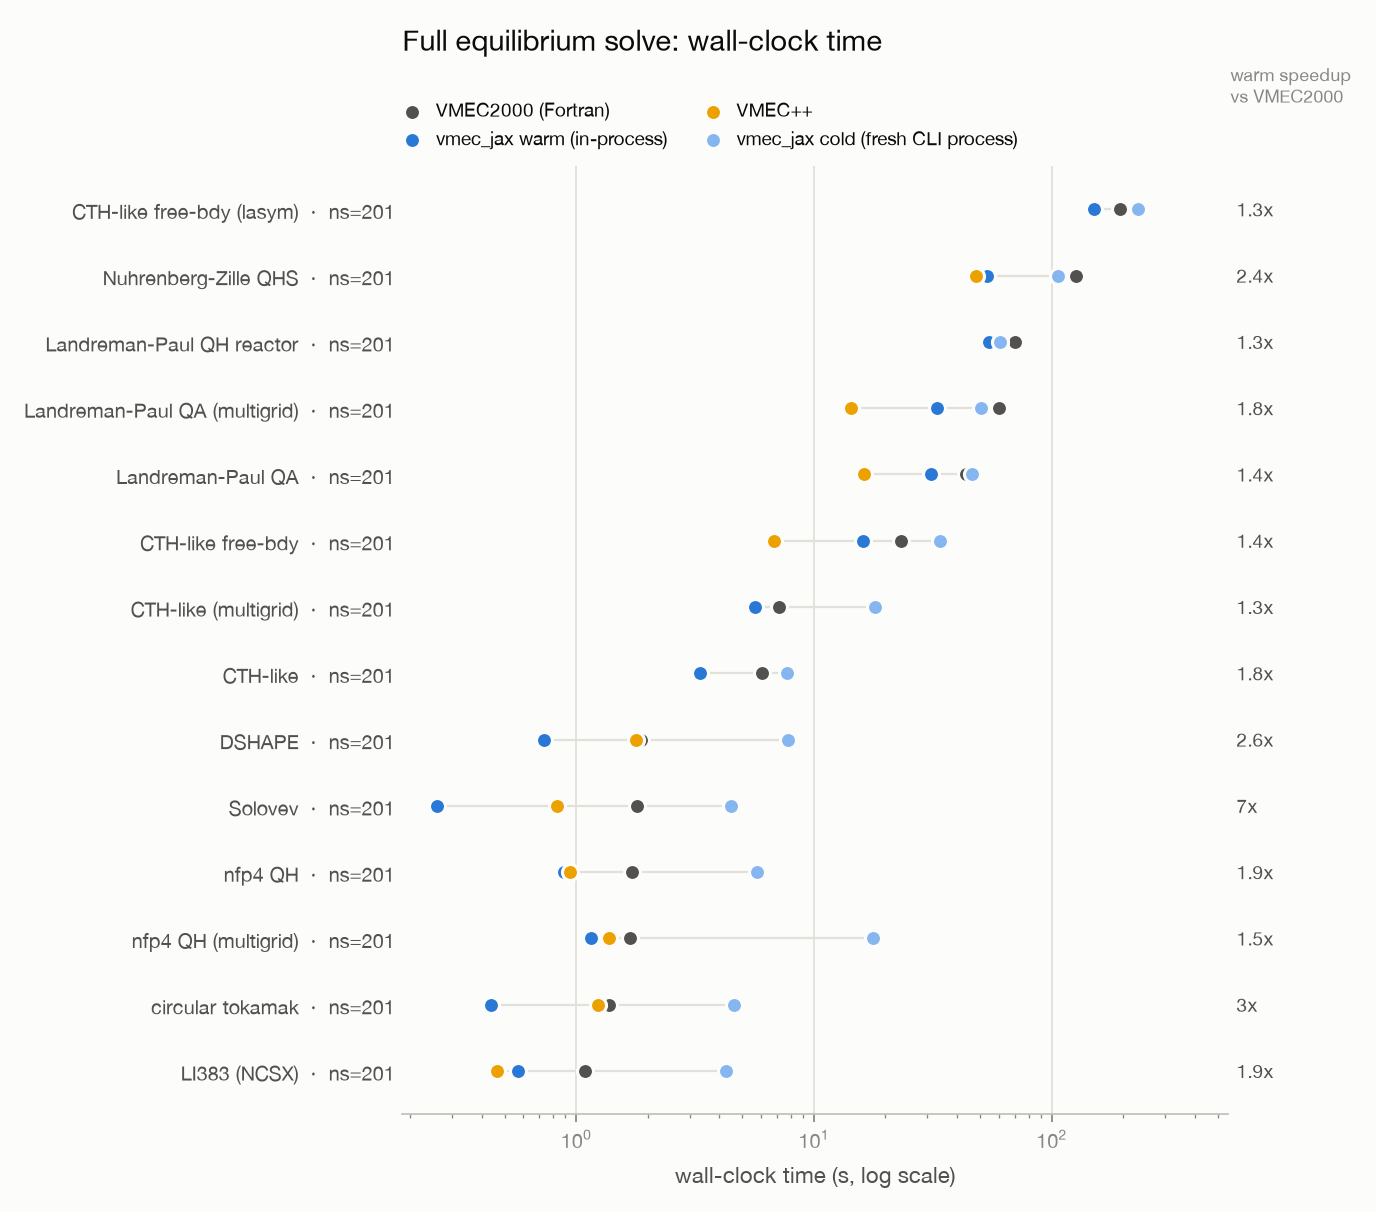
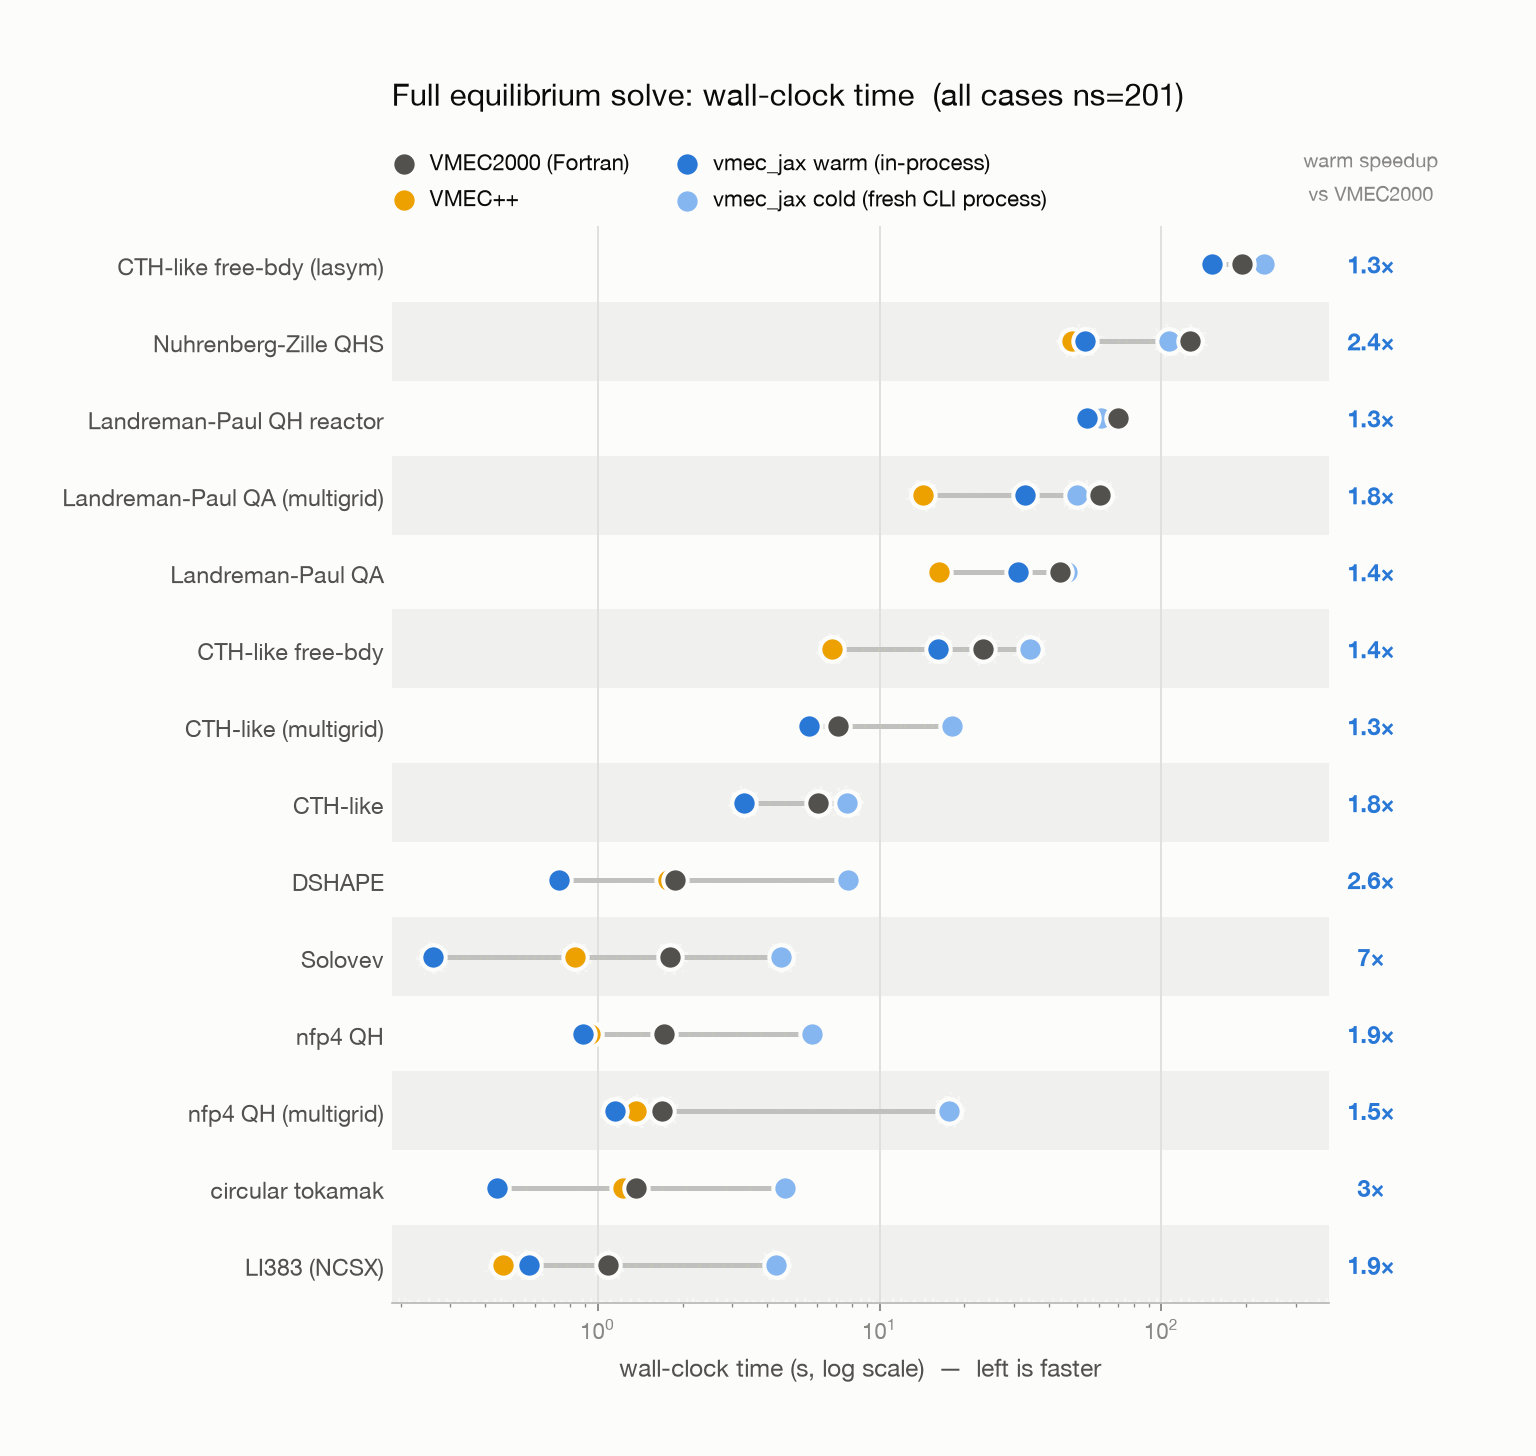
figures: publication-quality polish pass (runtime, objectives, single-stage)
- readme_runtime_compare: larger white-edged markers, thicker range lines,
  banded rows, bold blue speedup column, bigger label/tick fonts, ns=201
  moved into the title, dead right-hand decade removed.  The dot plot is
  kept over paired bars: the data spans three decades so the axis must be
  log, and bar lengths misencode magnitude on a log axis.
- readme_objectives: bigger seed/final dots and arrow connectors, data-driven
  value-label sides, no arrowhead on nearly-unmoved rows (both dots stay
  visible), larger row/target/drift text, tightened margins.
- readme_single_stage: nested gridspec with slight overlap between the two
  3-D rows removes the dead vertical gap; title/subtitle separation and
  font sizes raised throughout.
- shared 3-D/Boozer/boundary helpers: colorbar and tick fonts raised from
  6-7pt to 7.5-8pt (optimization/qi/showcase pick this up on their next
  refresh; not re-solved here).

diff --git a/benchmarks/make_readme_figures.py b/benchmarks/make_readme_figures.py
@@ -149,55 +149,79 @@ def make_runtime_figure(out: Path) -> None:
                          gpu=gr))
     rows.sort(key=lambda r: r["v2k"])
 
-    fig, ax = plt.subplots(figsize=(8.6, 0.42 * len(rows) + 1.7), dpi=160)
+    ns_set = {r["ns"] for r in rows}
+    same_ns = len(ns_set) == 1
+
+    fig, ax = plt.subplots(figsize=(9.6, 0.50 * len(rows) + 2.1), dpi=160)
+    fig.subplots_adjust(left=0.255, right=0.865, top=0.845, bottom=0.105)
     ys = range(len(rows))
     for y, r in zip(ys, rows):
+        if y % 2 == 0:
+            ax.axhspan(y - 0.5, y + 0.5, color="#f4f3ef", zorder=0)
         xs = [v for v in (r["v2k"], r["cold"], r["warm"], r["vpp"], r["gpu"]) if v]
-        ax.hlines(y, min(xs), max(xs), color=GRID, lw=1.0, zorder=1)
+        ax.hlines(y, min(xs), max(xs), color=BASELINE, lw=2.2, zorder=1,
+                  capstyle="round")
 
-    mk = dict(s=52, zorder=3, linewidths=1.4, edgecolors=SURFACE)
-    ax.scatter([r["v2k"] for r in rows], list(ys), color=INK2,
-               label="VMEC2000 (Fortran)", **mk)
-    ax.scatter([r["warm"] for r in rows], list(ys), color=BLUE,
-               label="vmec_jax warm (in-process)", **mk)
+    # hero (warm, blue) drawn last so it stays on top where points coincide
+    mk = dict(s=120, zorder=3, linewidths=1.8, edgecolors="white")
+    ax.scatter([r["cold"] for r in rows], list(ys), color=BLUE_LIGHT,
+               label="vmec_jax cold (fresh CLI process)", **mk)
     vpp_pts = [(r["vpp"], y) for y, r in zip(ys, rows) if r["vpp"]]
     ax.scatter([p[0] for p in vpp_pts], [p[1] for p in vpp_pts],
                color=YELLOW, label="VMEC++", **mk)
     gpu_pts = [(r["gpu"], y) for y, r in zip(ys, rows) if r["gpu"]]
     if gpu_pts:
         ax.scatter([p[0] for p in gpu_pts], [p[1] for p in gpu_pts],
-                   color=VIOLET, marker="D", s=40, zorder=3, linewidths=1.4,
-                   edgecolors=SURFACE, label="vmec_jax warm (GPU)")
-    ax.scatter([r["cold"] for r in rows], list(ys), color=BLUE_LIGHT,
-               label="vmec_jax cold (fresh CLI process)", **mk)
+                   color=VIOLET, marker="D", s=95, zorder=3, linewidths=1.8,
+                   edgecolors="white", label="vmec_jax warm (GPU)")
+    ax.scatter([r["v2k"] for r in rows], list(ys), color=INK2,
+               label="VMEC2000 (Fortran)", **mk)
+    ax.scatter([r["warm"] for r in rows], list(ys), color=BLUE, zorder=4,
+               s=120, linewidths=1.8, edgecolors="white",
+               label="vmec_jax warm (in-process)")
 
     xmax = max(max(v for v in (r["v2k"], r["cold"], r["vpp"] or 0, r["gpu"] or 0))
                for r in rows)
+    tr = ax.get_yaxis_transform()  # x in axes fraction, y in data
     for y, r in zip(ys, rows):
         sp = r["v2k"] / r["warm"]
-        ax.annotate(f"{sp:,.0f}x" if sp >= 3 else f"{sp:.1f}x",
-                    xy=(xmax * 2.6, y), va="center", ha="left",
-                    fontsize=8.5, color=INK2, annotation_clip=False)
-    ax.annotate("warm speedup\nvs VMEC2000", xy=(xmax * 2.45, len(rows) + 0.55),
-                va="bottom", ha="left", fontsize=8, color=MUTED,
-                annotation_clip=False)
+        ax.text(1.045, y, f"{sp:,.0f}×" if sp >= 3 else f"{sp:.1f}×",
+                transform=tr, va="center", ha="center", fontsize=11,
+                color=BLUE, fontweight="bold", clip_on=False)
+    ax.text(1.045, 1.015, "warm speedup\nvs VMEC2000", transform=ax.transAxes,
+            va="bottom", ha="center", fontsize=9, color=MUTED,
+            linespacing=1.35)
 
     ax.set_xscale("log")
     ax.set_yticks(list(ys))
-    ax.set_yticklabels([f"{r['label']}  ·  ns={r['ns']}" for r in rows])
-    ax.set_xlabel("wall-clock time (s, log scale)")
-    ax.set_xlim(right=xmax * 2.4)
+    if same_ns:
+        ax.set_yticklabels([r["label"] for r in rows], fontsize=10.5)
+    else:
+        ax.set_yticklabels([f"{r['label']}  ·  ns={r['ns']}" for r in rows],
+                           fontsize=10.5)
+    ax.set_xlabel("wall-clock time (s, log scale)  —  left is faster",
+                  fontsize=11)
+    ax.tick_params(axis="x", labelsize=10)
+    ax.set_xlim(right=xmax * 1.7)
+    ax.set_ylim(-0.5, len(rows) - 0.5)
     ax.xaxis.grid(True)
     ax.set_axisbelow(True)
     for s in ("top", "right", "left"):
         ax.spines[s].set_visible(False)
     ax.tick_params(axis="y", length=0)
-    ax.set_title("Full equilibrium solve: wall-clock time", loc="left",
-                 pad=52, fontsize=13, color=INK)
-    ax.legend(loc="lower left", bbox_to_anchor=(-0.02, 1.01), ncols=2,
-              fontsize=8.5, columnspacing=1.4, handletextpad=0.25,
-              borderaxespad=0.0, labelspacing=0.35)
-    fig.tight_layout()
+    title = "Full equilibrium solve: wall-clock time"
+    if same_ns:
+        title += f"  (all cases ns={next(iter(ns_set))})"
+    ax.set_title(title, loc="left", pad=54, fontsize=14, color=INK)
+    handles, labels = ax.get_legend_handles_labels()
+    order = ["VMEC2000 (Fortran)", "VMEC++",
+             "vmec_jax warm (in-process)", "vmec_jax cold (fresh CLI process)",
+             "vmec_jax warm (GPU)"]
+    pairs = sorted(zip(handles, labels), key=lambda hl: order.index(hl[1]))
+    ax.legend([p[0] for p in pairs], [p[1] for p in pairs],
+              loc="lower left", bbox_to_anchor=(-0.02, 1.005), ncols=2,
+              fontsize=10, columnspacing=1.6, handletextpad=0.15,
+              borderaxespad=0.0, labelspacing=0.45)
     fig.savefig(out, dpi=160)
     plt.close(fig)
     print("wrote", out)
@@ -509,7 +533,7 @@ def _plot_boundary_slices(axb, R, Z, *, color, seed=None):
     # labels align across a row of wildly different boundary scales — while
     # preserving true, undistorted equal-aspect cross-sections.
     axb.set_aspect("equal", adjustable="datalim")
-    axb.tick_params(labelsize=7)
+    axb.tick_params(labelsize=8)
     for s in ("top", "right"):
         axb.spines[s].set_visible(False)
 
@@ -547,7 +571,7 @@ def _plot_3d_modB(fig, ax3d, wout, nfp):
                            norm=Normalize(float(Bg.min()), float(Bg.max())))
     sm.set_array([])
     cb = fig.colorbar(sm, ax=ax3d, pad=0.0, fraction=0.045, shrink=0.62)
-    cb.ax.tick_params(labelsize=6, colors=MUTED)
+    cb.ax.tick_params(labelsize=7.5, colors=MUTED)
     cb.outline.set_visible(False)
     return float(Bg.min()), float(Bg.max())
 
@@ -570,10 +594,10 @@ def _plot_boozer_modB(fig, axm, wout, nfp, tag):
     pc = axm.contour(pb * nfp / (2 * np.pi), tb / (2 * np.pi), B,
                      levels=22, cmap="jet", linewidths=0.8)
     cb = fig.colorbar(pc, ax=axm, pad=0.02, fraction=0.05)
-    cb.ax.tick_params(labelsize=6.5, colors=MUTED)
+    cb.ax.tick_params(labelsize=7.5, colors=MUTED)
     cb.outline.set_visible(False)
-    axm.set_xlabel("$\\phi_B$ (field periods)", fontsize=8.5)
-    axm.tick_params(labelsize=7)
+    axm.set_xlabel("$\\phi_B$ (field periods)", fontsize=9)
+    axm.tick_params(labelsize=8)
     return float(B.min()), float(B.max())
 
 
@@ -963,7 +987,7 @@ def _plot_coils_and_lcfs(fig, ax3d, wout, gamma, nfp):
                            norm=Normalize(float(Bg.min()), float(Bg.max())))
     sm.set_array([])
     cb = fig.colorbar(sm, ax=ax3d, pad=0.0, fraction=0.04, shrink=0.6)
-    cb.ax.tick_params(labelsize=6, colors=MUTED)
+    cb.ax.tick_params(labelsize=7.5, colors=MUTED)
     cb.outline.set_visible(False)
     return float(Bg.min()), float(Bg.max())
 
@@ -992,9 +1016,14 @@ def make_single_stage_figure(out: Path) -> None:
 
     seed_inp = vj.VmecInput.from_file(str(SINGLE_STAGE_SEED))
     ncol = len(cases)
-    fig = plt.figure(figsize=(3.4 * ncol, 9.4), dpi=150)
-    gs = fig.add_gridspec(3, ncol, height_ratios=[1.0, 0.92, 0.92],
-                          hspace=0.24, wspace=0.28)
+    fig = plt.figure(figsize=(3.4 * ncol, 8.4), dpi=150)
+    # nested gridspecs: the 3-D axes hold their (flat) content in a middle
+    # band, so the two 3-D rows overlap slightly (negative hspace) to avoid a
+    # dead vertical gap between them
+    outer = fig.add_gridspec(2, 1, height_ratios=[1.0, 1.62], hspace=0.34,
+                             left=0.09, right=0.97, top=0.86, bottom=0.005)
+    gs_top = outer[0].subgridspec(1, ncol, wspace=0.28)
+    gs_bot = outer[1].subgridspec(2, ncol, wspace=0.28, hspace=-0.30)
     theta = np.linspace(0, 2 * np.pi, 241)
 
     for col, (name, title, cdir) in enumerate(cases):
@@ -1008,7 +1037,7 @@ def make_single_stage_figure(out: Path) -> None:
         # -- row 0: seed vs two-stage vs single-stage boundary -----------------
         # All three on one axes: the shared (auto-scaled, equal-aspect) limits
         # keep the crude cold-start seed AND both finals visible together.
-        axb = fig.add_subplot(gs[0, col])
+        axb = fig.add_subplot(gs_top[0, col])
         Rs, Zs = _input_boundary_rz(seed_inp, theta, phi_arr)
         Rt, Zt = surface_rz(w_two, s_index=-1, theta=theta, phi=phi_arr)
         Rf, Zf = surface_rz(w_sin, s_index=-1, theta=theta, phi=phi_arr)
@@ -1024,15 +1053,15 @@ def make_single_stage_figure(out: Path) -> None:
                      alpha=1.0 if k == 0 else 0.55,
                      label="single-stage" if k == 0 else None)
         axb.set_aspect("equal", adjustable="datalim")
-        axb.set_title(title, loc="left", fontsize=10.5, color=INK, pad=3)
-        axb.tick_params(labelsize=7)
+        axb.set_title(title, loc="left", fontsize=11.5, color=INK, pad=4)
+        axb.tick_params(labelsize=8)
         for s in ("top", "right"):
             axb.spines[s].set_visible(False)
         if col == 0:
-            axb.set_ylabel("Z (m)", fontsize=8.5)
-        axb.set_xlabel("R (m)", fontsize=8.5)
-        axb.legend(loc="upper right", fontsize=6.5, handlelength=1.4,
-                   labelspacing=0.25, borderaxespad=0.1)
+            axb.set_ylabel("Z (m)", fontsize=9.5)
+        axb.set_xlabel("R (m)", fontsize=9.5)
+        axb.legend(loc="upper right", fontsize=8, handlelength=1.4,
+                   labelspacing=0.3, borderaxespad=0.1)
         pol = comp.get("single_stage_polish")
         bn_line = ("$\\langle|B\\cdot n|\\rangle/\\langle B\\rangle$: "
                    f"{ts['avg_Bn_over_B']:.1e}"
@@ -1043,8 +1072,8 @@ def make_single_stage_figure(out: Path) -> None:
                    + f" (cold {ss['qs_total']:.1e})")
         axb.annotate(
             bn_line + "\n" + qs_line,
-            xy=(0.5, -0.24), xycoords="axes fraction", ha="center", va="top",
-            fontsize=7, color=GREEN_TEXT, fontweight="bold")
+            xy=(0.5, -0.26), xycoords="axes fraction", ha="center", va="top",
+            fontsize=8, color=GREEN_TEXT, fontweight="bold", linespacing=1.45)
         if name == "beta":
             # The case's calibrated seed <beta> (the finals' betatotal shifts
             # with each approach's plasma volume at the fixed pres_scale).
@@ -1056,32 +1085,31 @@ def make_single_stage_figure(out: Path) -> None:
                                                   float(w_sin.betatotal)]))
             axb.annotate(f"$\\langle\\beta\\rangle \\approx$ {beta_pct:.1f}%",
                          xy=(0.98, 1.02), xycoords="axes fraction", ha="right",
-                         va="bottom", fontsize=8, color=MUTED)
+                         va="bottom", fontsize=9, color=MUTED)
 
         # -- rows 1-2: each approach's final LCFS |B| inside its final coils ---
         for row, (wout, npz, lab, c) in enumerate(
                 [(w_two, "coils_stage2.npz", "two-stage", YELLOW),
                  (w_sin, "coils_single.npz", "single-stage", BLUE)], start=1):
             gamma = _coil_gamma_from_npz(cdir / npz)
-            ax3d = fig.add_subplot(gs[row, col], projection="3d")
+            ax3d = fig.add_subplot(gs_bot[row - 1, col], projection="3d")
             ax3d.patch.set_alpha(0.0)  # keep row-0's metric annotation visible
             b_lo, b_hi = _plot_coils_and_lcfs(fig, ax3d, wout, gamma, nfp)
-            ax3d.text2D(0.03, 0.10, lab, transform=ax3d.transAxes, ha="left",
-                        va="bottom", fontsize=9, color=c, fontweight="bold")
+            ax3d.text2D(0.05, 0.16, lab, transform=ax3d.transAxes, ha="left",
+                        va="bottom", fontsize=11, color=c, fontweight="bold")
             print(f"  {name}/{lab}: <|B.n|>/<B>={comp[lab.replace('-', '_')]['avg_Bn_over_B']:.3e}  "
                   f"QS={comp[lab.replace('-', '_')]['qs_total']:.3e}  "
                   f"|B|=[{b_lo:.2f},{b_hi:.2f}]T", flush=True)
 
     fig.suptitle("Cold-start single-stage vs two-stage plasma + coil "
-                 "optimization", x=0.5, ha="center", fontsize=12.5, color=INK,
-                 y=0.995)
-    fig.text(0.5, 0.966, "top: seed (grey, dashed) vs two-stage (orange) vs "
+                 "optimization", x=0.5, ha="center", fontsize=13.5, color=INK,
+                 y=0.993)
+    fig.text(0.5, 0.945, "top: seed (grey, dashed) vs two-stage (orange) vs "
              "single-stage (blue) boundary at $\\phi=0$ and a half field period",
-             ha="center", fontsize=8, color=MUTED)
-    fig.text(0.5, 0.951, "middle / bottom: each approach's final LCFS "
+             ha="center", fontsize=9.5, color=MUTED)
+    fig.text(0.5, 0.921, "middle / bottom: each approach's final LCFS "
              "coloured by |B| inside its own final coils",
-             ha="center", fontsize=8, color=MUTED)
-    fig.tight_layout(rect=(0, 0, 1, 0.936))
+             ha="center", fontsize=9.5, color=MUTED)
     fig.savefig(out, dpi=150)
     plt.close(fig)
     _compress_png(out)
@@ -1116,8 +1144,8 @@ def make_objectives_figure(out: Path) -> None:
             return
         rows.append((label, lane, json.loads(path.read_text())))
 
-    fig, ax = plt.subplots(figsize=(9.8, 0.98 * len(rows) + 1.7), dpi=150)
-    fig.subplots_adjust(left=0.235, right=0.665, top=0.80, bottom=0.06)
+    fig, ax = plt.subplots(figsize=(10.8, 0.92 * len(rows) + 1.55), dpi=150)
+    fig.subplots_adjust(left=0.225, right=0.645, top=0.815, bottom=0.035)
     ys = np.arange(len(rows))[::-1].astype(float)
     tr = ax.get_yaxis_transform()  # x in axes fraction, y in data
 
@@ -1131,51 +1159,61 @@ def make_objectives_figure(out: Path) -> None:
         pos = lambda v: (v - lo + pad) / (span + 2.0 * pad)  # noqa: E731
         xs, xf, xt = (pos(v) for v in vals)
 
-        ax.plot([xt], [y], marker="|", ms=15, mew=1.4, color=BASELINE, zorder=1)
+        ax.plot([xt], [y], marker="|", ms=22, mew=2.4, color=BASELINE, zorder=1)
         ax.annotate("target " + fmt.format(m["target"]), xy=(xt, y),
-                    xytext=(0, -13), textcoords="offset points", ha="center",
-                    fontsize=7, color=MUTED)
-        ax.annotate("", xy=(xf, y), xytext=(xs, y),
-                    arrowprops=dict(arrowstyle="-|>", color=BLUE, lw=1.7,
-                                    shrinkA=5, shrinkB=2), zorder=2)
-        ax.plot([xs], [y], "o", ms=7, color=BASELINE, mec=SURFACE, zorder=3)
-        ax.plot([xf], [y], "o", ms=8, color=BLUE, mec=SURFACE, zorder=3)
-        # nearly-unmoved metrics: split the value labels left/right of the
-        # dots so they never overprint each other
-        near = abs(xf - xs) < 0.12
+                    xytext=(0, -19), textcoords="offset points", ha="center",
+                    fontsize=8.5, color=MUTED)
+        # nearly-unmoved metrics: no arrow (an arrowhead between two nearly
+        # coincident dots reads as clutter); split the value labels left/right
+        near = abs(xf - xs) < 0.11
+        if not near:
+            ax.annotate("", xy=(xf, y), xytext=(xs, y),
+                        arrowprops=dict(arrowstyle="-|>", color=BLUE, lw=3.2,
+                                        mutation_scale=26, shrinkA=9,
+                                        shrinkB=4), zorder=2)
+        # on nearly-unmoved rows the two dots coincide: draw the (smaller)
+        # grey seed on top of the blue final so both stay visible
+        ax.plot([xs], [y], "o", ms=12, color=BASELINE, mec="white", mew=1.8,
+                zorder=5 if near else 3)
+        ax.plot([xf], [y], "o", ms=14, color=BLUE, mec="white", mew=1.8,
+                zorder=4)
+        seed_left = xs <= xf  # label each dot on its own side of the pair
         ax.annotate(fmt.format(seed["metric"]), xy=(xs, y),
-                    xytext=(-7 if near else 0, 9), textcoords="offset points",
-                    ha="right" if near else "center", fontsize=8, color=INK2)
+                    xytext=((-10 if seed_left else 10) if near else 0, 13),
+                    textcoords="offset points",
+                    ha=("right" if seed_left else "left") if near else "center",
+                    fontsize=10, color=INK2)
         ax.annotate(fmt.format(final["metric"]), xy=(xf, y),
-                    xytext=(7 if near else 0, 9), textcoords="offset points",
-                    ha="left" if near else "center", fontsize=8.5,
-                    color=BLUE, fontweight="bold")
+                    xytext=((10 if seed_left else -10) if near else 0, 13),
+                    textcoords="offset points",
+                    ha=("left" if seed_left else "right") if near else "center",
+                    fontsize=11, color=BLUE, fontweight="bold")
         arrow = " $\\rightarrow$ "  # mathtext: the plain glyph is missing in
         # the mixed math/text layout of the second drift line
         drift = (f"QS {seed['qs_total']:.0e}{arrow}{final['qs_total']:.0e}\n"
-                 f"A {seed['aspect']:.2f}{arrow}{final['aspect']:.2f}   "
+                 f"A {seed['aspect']:.2f}{arrow}{final['aspect']:.2f}    "
                  f"$\\iota$ {seed['mean_iota']:.3f}{arrow}{final['mean_iota']:.3f}")
-        ax.text(1.05, y, drift, transform=tr, fontsize=7.5, color=INK2,
-                va="center", ha="left", linespacing=1.5)
+        ax.text(1.06, y, drift, transform=tr, fontsize=9, color=INK2,
+                va="center", ha="left", linespacing=1.6)
 
     ax.set_yticks(ys)
-    ax.set_yticklabels([f"{label}\n" for label, _lane, _m in rows], fontsize=9.5)
+    ax.set_yticklabels([f"{label}\n" for label, _lane, _m in rows], fontsize=11)
     for y, (_label, lane, m) in zip(ys, rows):
-        ax.text(-0.02, y - 0.18, f"{lane} · {m['label']}", transform=tr,
-                fontsize=7, color=MUTED, va="center", ha="right")
-    ax.set_ylim(-0.75, len(rows) - 0.25)
+        ax.text(-0.02, y - 0.20, f"{lane} · {m['label']}", transform=tr,
+                fontsize=8.5, color=MUTED, va="center", ha="right")
+    ax.set_ylim(-0.58, len(rows) - 0.3)
     ax.set_xlim(0.0, 1.0)
     ax.set_xticks([])
     for s in ("top", "right", "left", "bottom"):
         ax.spines[s].set_visible(False)
     ax.tick_params(axis="y", length=0)
     ax.set_title("Beyond quasisymmetry: one new objective per campaign, QS held",
-                 loc="left", pad=44, fontsize=12.5, color=INK)
-    ax.text(0.0, 1.035, "precise-QA seed (grey) $\\rightarrow$ after one short "
+                 loc="left", pad=46, fontsize=14, color=INK)
+    ax.text(0.0, 1.045, "precise-QA seed (grey) $\\rightarrow$ after one short "
             "campaign (blue); the held metrics on the right",
-            transform=ax.transAxes, fontsize=8.5, color=INK2, va="bottom")
-    ax.text(1.05, len(rows) - 0.32, "held-metric drift", transform=tr,
-            fontsize=7.5, color=MUTED, va="bottom", ha="left")
+            transform=ax.transAxes, fontsize=10, color=INK2, va="bottom")
+    ax.text(1.06, len(rows) - 0.36, "held-metric drift", transform=tr,
+            fontsize=9, color=MUTED, va="bottom", ha="left")
     fig.savefig(out, dpi=150)
     _compress_png(out)
     plt.close(fig)